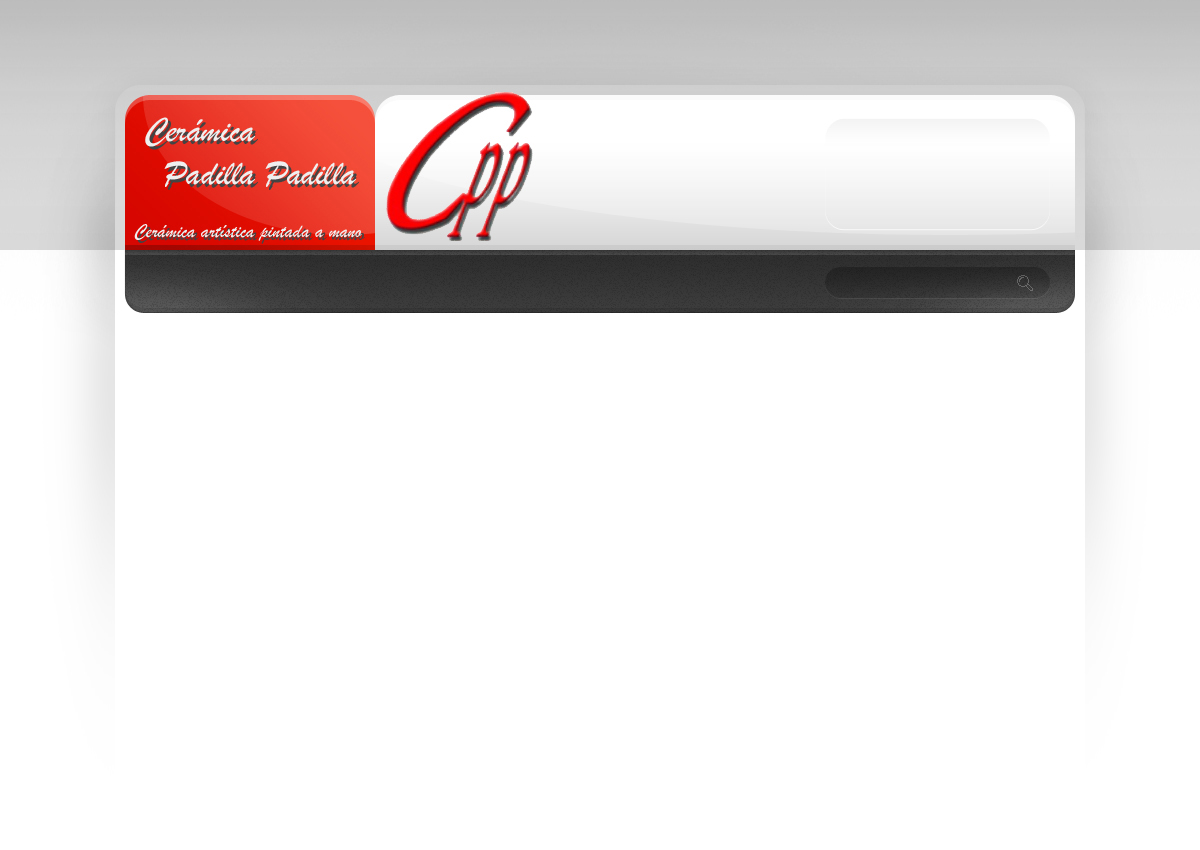
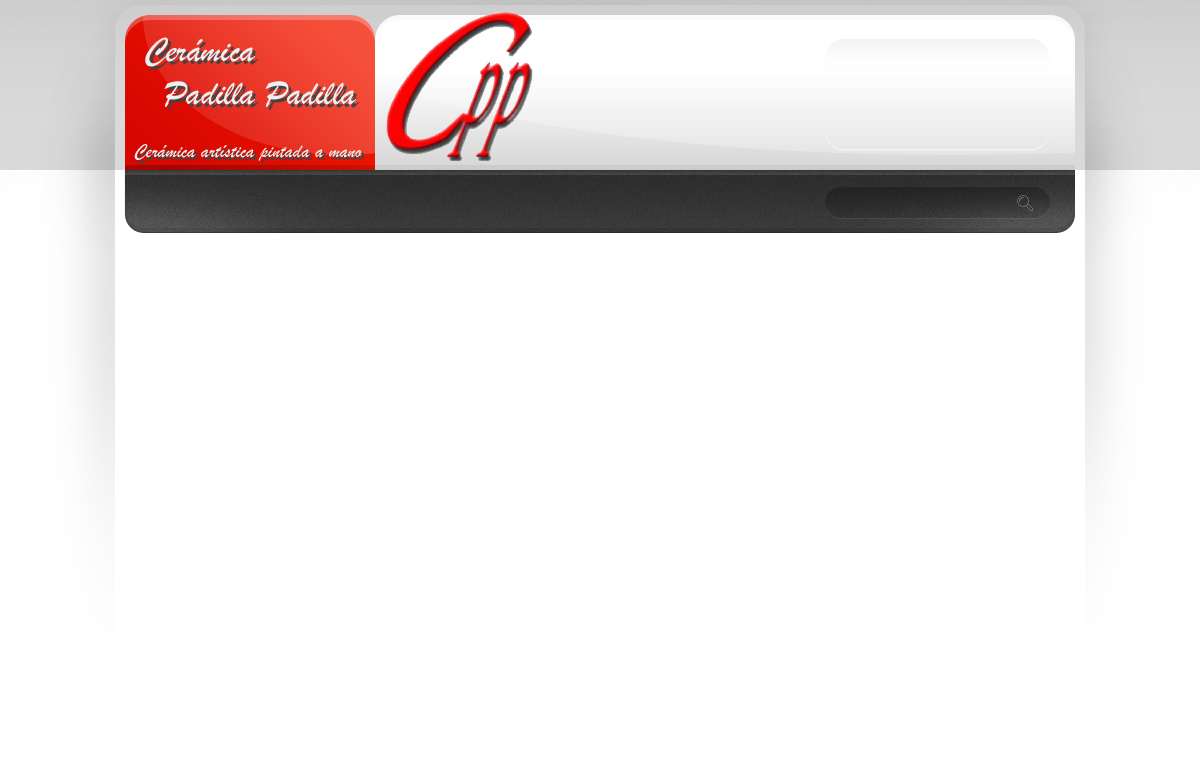
Made header shorter

Changed region(s): [[0.0, 0.0, 1.0, 0.374]]

diff --git a/app/assets/stylesheets/default.css.scss b/app/assets/stylesheets/default.css.scss
@@ -113,7 +113,7 @@ ol.style2 li {
 
 #top-header {
 	height: 155px;
-	padding-top: 95px;
+	padding-top: 15px;
 }
 
 /** LOGO */
